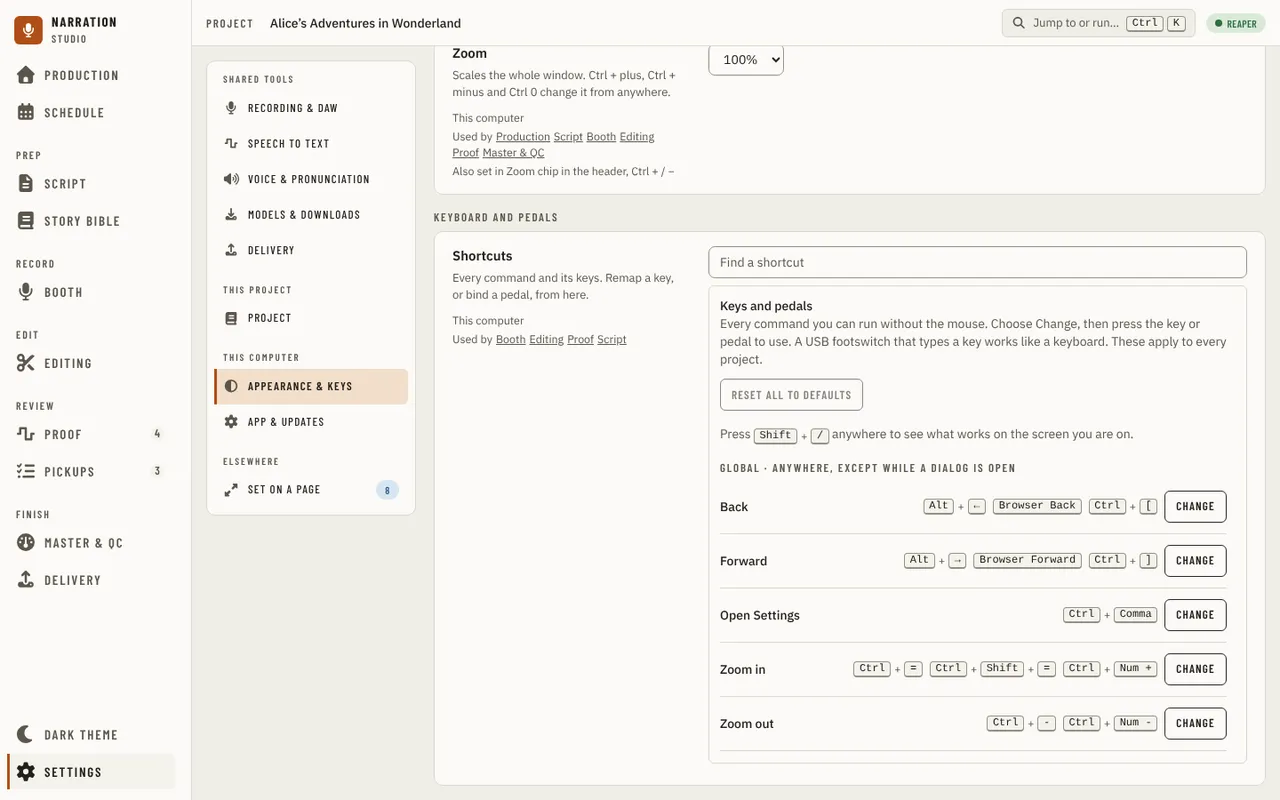
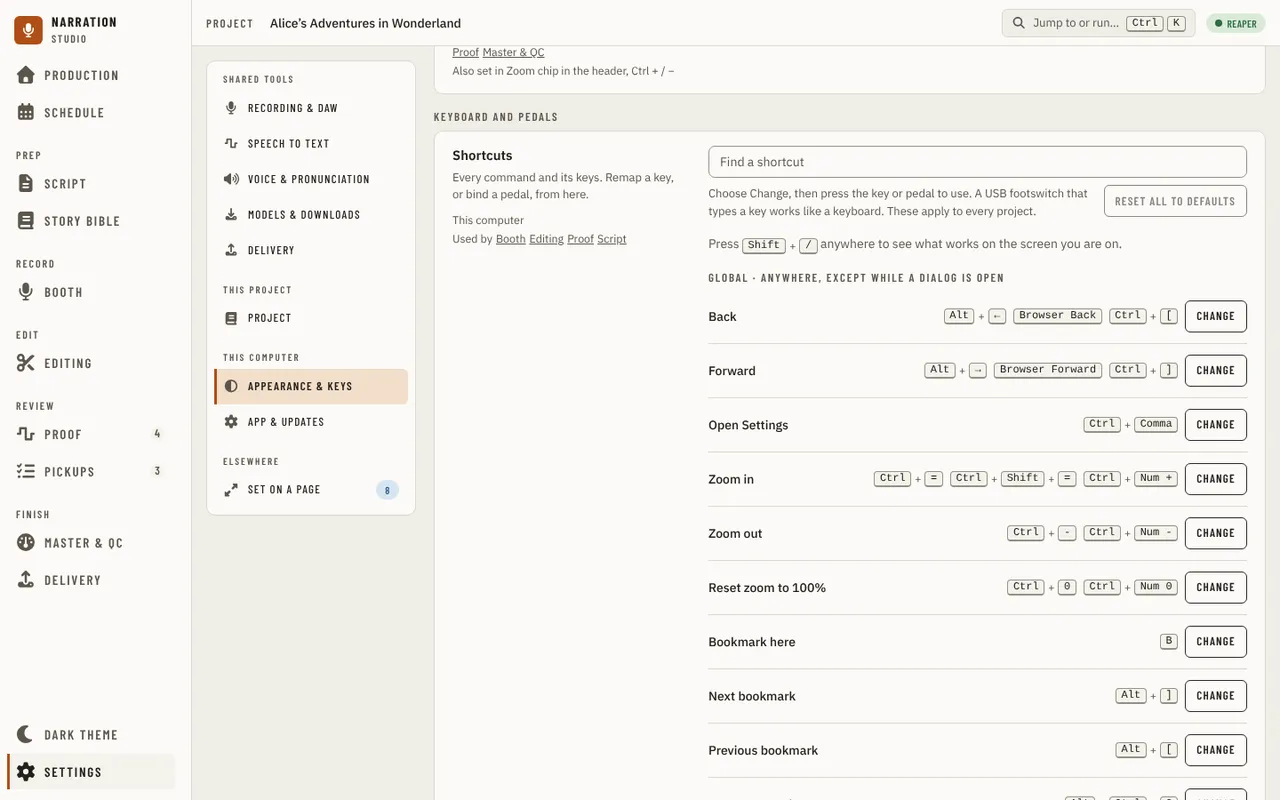
fix(settings): Shortcuts grows with its card and keeps Change on one right edge (#2395)

Changed region(s): [[0.5312, 0.1562, 0.9688, 1.0], [0.3438, 0.0625, 0.5312, 0.4375], [0.5625, 0.0625, 0.5938, 0.125]]

diff --git a/src/studio/ui/src/components/settings/KeyboardPanel.tsx b/src/studio/ui/src/components/settings/KeyboardPanel.tsx
@@ -159,7 +159,7 @@ function Recorder({ command, currentGestures, scope, catalog, keymap, busy, onCa
             Try another key
           </Button>
         )}
-        <Button variant="secondary" className="ml-auto" disabled={busy} onClick={onCancel}>
+        <Button variant="secondary" disabled={busy} onClick={onCancel}>
           Cancel
         </Button>
       </div>
@@ -230,13 +230,9 @@ export function KeyboardPanel({
   return (
     <div className="space-y-4 text-sm">
       <div className="flex flex-wrap items-start justify-between gap-3">
-        <div>
-          <div className="font-medium">Keys and pedals</div>
-          <p style={{ color: 'var(--text-muted)' }}>
-            Every command you can run without the mouse. Choose Change, then press the key or pedal to use. A USB footswitch that types a key works like a
-            keyboard. These apply to every project.
-          </p>
-        </div>
+        <p className="m-0 max-w-[60ch] min-w-0 flex-[1_1_16rem] text-[0.8125rem]" style={{ color: 'var(--text-muted)' }}>
+          Choose Change, then press the key or pedal to use. A USB footswitch that types a key works like a keyboard. These apply to every project.
+        </p>
         <Button variant="secondary" disabled={busy || !anyChanged} onClick={() => void persist(defaults)}>
           Reset all to defaults
         </Button>
@@ -258,8 +254,10 @@ export function KeyboardPanel({
               const changed = isChanged(keymap, defaults, command.id);
               return (
                 <div key={command.id} className="border-b py-3" style={{ borderColor: 'var(--border)' }}>
-                  <div className="flex flex-wrap items-center justify-between gap-3">
-                    <span className="flex flex-wrap items-center gap-2 font-medium">
+                  {/* The name on the left, the keys and the buttons as one group on the right: when the line is too short the group wraps under
+                      the name and stays right-aligned, so Change keeps one right edge down the list (alignment audit XSE1-4). */}
+                  <div className="flex flex-wrap items-center gap-x-3 gap-y-2">
+                    <span className="flex min-w-0 flex-[1_1_10rem] flex-wrap items-center gap-2 font-medium">
                       {command.label}
                       {command.noisy && (
                         <span className="text-[0.75rem] font-normal" style={{ color: 'var(--text-muted)' }}>
@@ -268,7 +266,7 @@ export function KeyboardPanel({
                       )}
                       {changed && <StatusBadge tone="warning" look="outline" label="Changed" />}
                     </span>
-                    <span className="flex flex-wrap items-center gap-2">
+                    <span className="ml-auto flex flex-wrap items-center justify-end gap-2">
                       <GestureChips gestures={gestures} />
                       {changed && (
                         <Button variant="secondary" disabled={busy} onClick={() => void persist({ ...keymap, [command.id]: defaults[command.id] ?? [] })}>

diff --git a/src/studio/ui/src/components/settings/controls/project.test.tsx b/src/studio/ui/src/components/settings/controls/project.test.tsx
@@ -278,6 +278,36 @@ describe('Settings: Appearance & keys', () => {
     await waitFor(() => expect(set).toHaveBeenLastCalledWith(1));
   });
 
+  // Alignment audit (XSE1-3, XSE1-4, XSE2-33).
+  it('shortcuts: the list grows with the card, no frame or scroller of its own, and Change keeps one right edge', async () => {
+    await renderPage();
+    await open('Appearance & keys');
+    const list = await within(row('keys.map')).findByRole('region', { name: 'Shortcuts' });
+    expect(list.className).not.toMatch(/overflow|max-h/);
+    expect(list.hasAttribute('tabindex')).toBe(false);
+    expect(list.parentElement!.style.borderColor).toBe('');
+    const change = (await within(list).findAllByRole('button', { name: 'Change' }))[0]!;
+    expect(change.parentElement!.className).toContain('ml-auto');
+    expect(change.parentElement!.className).toContain('justify-end');
+  });
+
+  it('shortcuts: the recorder keeps Cancel last in its one button row, not pushed apart', async () => {
+    await renderPage();
+    await open('Appearance & keys');
+    const list = await within(row('keys.map')).findByRole('region', { name: 'Shortcuts' });
+    await userEvent.click((await within(list).findAllByRole('button', { name: 'Change' }))[0]!);
+    const recorder = await within(list).findByRole('group', { name: /^Change "/ });
+    const cancel = within(recorder).getByRole('button', { name: 'Cancel' });
+    expect(cancel.className).not.toContain('ml-auto');
+    expect([...cancel.parentElement!.querySelectorAll('button')].at(-1)).toBe(cancel);
+  });
+
+  it('zoom is a short field of 8rem, not its content width', async () => {
+    await renderPage();
+    await open('Appearance & keys');
+    expect(within(row('look.zoom')).getByRole('combobox', { name: 'Zoom' }).className).toContain('w-32');
+  });
+
   it('shortcuts: a find box narrows the list, and a key can be remapped', async () => {
     const api = createMockApi();
     const save = vi.spyOn(api, 'saveSettings');

diff --git a/src/studio/ui/src/components/settings/controls/ShortcutsBody.tsx b/src/studio/ui/src/components/settings/controls/ShortcutsBody.tsx
@@ -1,5 +1,4 @@
 import { useState } from 'react';
-import { InsetCard } from '../../primitives/InsetCard';
 import { SearchField } from '../../primitives/SearchField';
 import { useScopedFields } from '../data/settingsForms';
 import { KeyboardPanel } from '../KeyboardPanel';
@@ -16,11 +15,10 @@ export function ShortcutsRowBody() {
   return (
     <div className="flex w-full min-w-0 flex-col gap-2">
       <SearchField label="Find a shortcut" placeholder="Find a shortcut" value={find} onChange={setFind} />
-      <InsetCard>
-        <div role="region" aria-label="Shortcuts" tabIndex={0} className="max-h-[32rem] overflow-y-auto">
-          <KeyboardPanel overridesField={fields?.find((field) => field.key === 'overrides')} notify={notify} reload={reload} find={find} />
-        </div>
-      </InsetCard>
+      {/* The list grows with the card: no frame or scroller of its own inside the row's card (alignment audit XSE1-3). */}
+      <div role="region" aria-label="Shortcuts">
+        <KeyboardPanel overridesField={fields?.find((field) => field.key === 'overrides')} notify={notify} reload={reload} find={find} />
+      </div>
     </div>
   );
 }

diff --git a/src/studio/ui/src/components/settings/controls/AppearanceBodies.tsx b/src/studio/ui/src/components/settings/controls/AppearanceBodies.tsx
@@ -79,8 +79,10 @@ export function ZoomRowBody() {
   const levels = ZOOM_LEVELS.includes(level) ? ZOOM_LEVELS : [...ZOOM_LEVELS, level].sort((a, b) => a - b);
   return (
     <div className="flex flex-nowrap items-center gap-1.5">
+      {/* A short value gets the settings' short field width, 8rem, not its 85 px content width (alignment audit XSE2-9, XSE2-33). */}
       <Select
         label="Zoom"
+        className="w-32"
         value={String(level)}
         options={levels.map((value) => ({ value: String(value), label: percent(value) }))}
         onChange={(value) => choose(Number(value))}

diff --git a/src/studio/ui/tests/visual/drivers/settings.ts b/src/studio/ui/tests/visual/drivers/settings.ts
@@ -370,7 +370,7 @@ export const settingsDrivers: Record<string, Driver> = {
   },
   'global-keyboard': async (page) => {
     await openShortcuts(page);
-    await page.getByText('Keys and pedals').waitFor();
+    await page.getByRole('button', { name: 'Reset all to defaults' }).waitFor();
   },
   'global-keyboard-recording': async (page) => {
     await openShortcuts(page);

diff --git a/docs/design/design-system.md b/docs/design/design-system.md
@@ -205,6 +205,8 @@ The Settings page always keeps every setting. A working page may also offer a co
 
 **Other rows.** **Show definitions from** keeps each option's badge and button in a cell at the right of its radio, so they never drop under the radio (alignment audit XSE2-15). A custom delivery profile is its name and description on the left and its three buttons as one group at the right; the profile editor centres every cell on its row (XSE1-9, XSE1-8). **Set on a page** draws each entry's text at the full row width and puts **Open <page>** (one width, 9.5rem at least) at the right of the **Change it here for now** line (XSE2-21). In a settings tool's panel a number box is 10rem (room for its "Inherits 0.8" placeholder) with or without a unit after it, and a label's hint icon stays on its last word's line (XSE2-22). The opened **Advanced** sections sit behind a 2 px rule down the left (XSE2-18).
 
+**Shortcuts.** The Shortcuts row's list grows with its card: no inner frame, no scroller and no second heading inside the row (the row's own label and description name it). Each command is its name on the left and its keys, Reset and **Change** as one right-aligned group, which wraps under the name, still right-aligned, when the line is short, so **Change** keeps one right edge down the list; the recorder's buttons are one wrapping row with **Cancel** last (alignment audit XSE1-3, XSE1-4). Zoom is a short field, 8rem.
+
 **Page frame.** The page fills the main area to the shell's `--page-gutter`, so its right edge is the top bar's (alignment audit XSE1-16): this supersedes the Studio Next mock's `.stg{max-width:1180px}` (`settings.css`), a left-aligned column that left a 500 px band empty beside it at 1920 px. The search box carries no magnifier beside it (the mock's `.stg-find` draws one outside the box, which read as a stray glyph; the box's placeholder names it) and takes `flex: 1 1 180px` from 260 px; below the 761 px container the search row spans the page. A category's title and blurb are one block (`page/PaneTitle.tsx`) that loading, a category, Models & downloads and Set on a page all draw, so the title does not move when the settings arrive; loading draws two section cards of label and control rows in the row's own columns. **Reset to defaults** is a small secondary button on the title line (the mock's underlined link was the page's only 16 px link). A save or read banner sits above the breadcrumb. The category list's group labels sit 4 px over their items and 12 px more under the group above; the current category's 3 px accent edge is straight (no left radius, as the rail's `NavButton`); the folded Category button draws a chevron and reads **Search results** while search or a filter shows results. In results, **Show the whole category** is a small secondary button at the right of the group header, and no match is a left-aligned card.
 
 **Saving.** A panel's form holds every field of its settings tool, and a field with no value in the scope is an empty string, which the host rejects for a choice or a colour. Save sends only the fields whose value changed (`changedValues` in `settings/page/ScopedFieldsPanel.tsx`); putting a field with no value of its own back to the value it inherits is no change, and a save with nothing changed does not call the host.

diff --git a/docs/guides/using-the-app/settings.md b/docs/guides/using-the-app/settings.md
@@ -258,7 +258,7 @@ replacing the manuscript keeps it; if its lines are gone, the panel says so and 
 - **Reader text** sets how the [Script](script.md) reader draws the text: **Font**, **Size**, **Line spacing** and **Column width**, over a quote drawn in them. These are the Script's own text settings, so a change here shows there and the other way round. The Booth keeps its own text size and uses the font chosen here.
 - **Note colour** is the colour that marks reader notes in the text; a project may override it.
 - **Zoom** scales the whole window (100% to 200%, the steps the jump menu's zoom commands and **Ctrl+plus**, **Ctrl+minus** and **Ctrl+0** use); it follows those and sets the same level.
-- **Shortcuts** lists every command you can run without the mouse, grouped by where it works, with a **Find a shortcut** box. **Change** opens a recorder under the command: press the key or pedal (a USB footswitch that types a key works like a keyboard), then **Replace**, **Add as another key**, **Unbind** or **Reset to default**. A key another command already uses is named, and **Replace** takes it from that command. A changed command shows **Changed** and its own **Reset**; **Reset all to defaults** undoes every change. Each change saves at once.
+- **Shortcuts** lists every command you can run without the mouse, grouped by where it works, with a **Find a shortcut** box; each command's keys and its **Change** button sit at the right of its line, and the list is as long as the card. **Change** opens a recorder under the command: press the key or pedal (a USB footswitch that types a key works like a keyboard), then **Replace**, **Add as another key**, **Unbind** or **Reset to default**. A key another command already uses is named, and **Replace** takes it from that command. A changed command shows **Changed** and its own **Reset**; **Reset all to defaults** undoes every change. Each change saves at once.
 
 ![Settings - Reader text: font, size, line spacing and column width over the preview quote](../../images/ui/settings-reader-text.webp)
 
